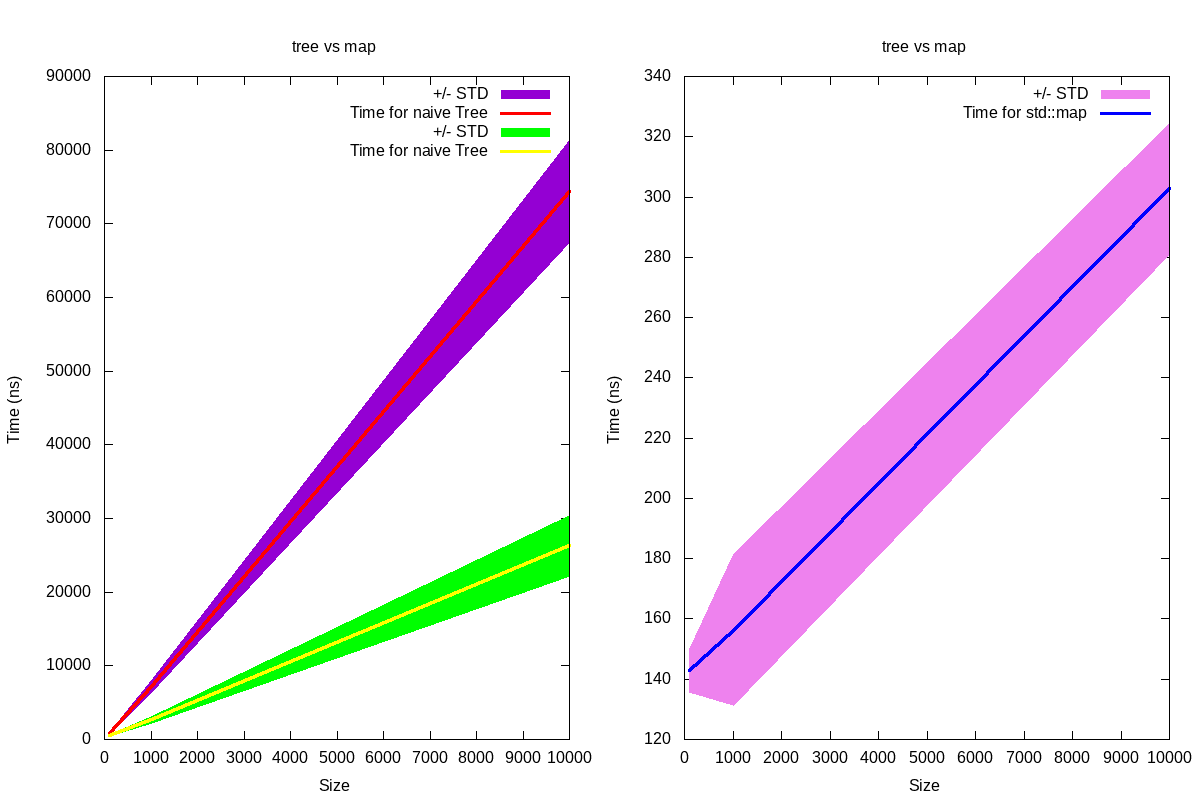
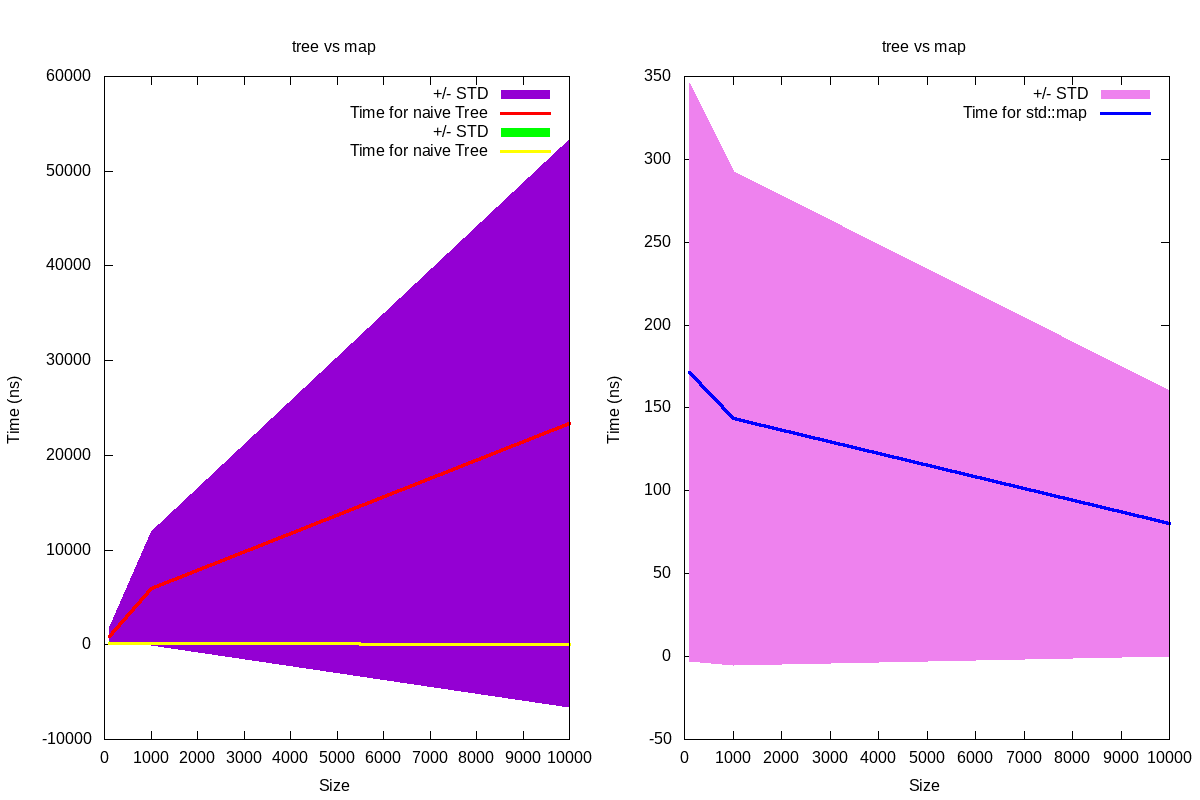
Running benchmarks

diff --git a/c++/main.cc b/c++/main.cc
@@ -101,9 +101,9 @@ class BinaryTree
 	// Insert new node
 	void insert(const std::pair<TK,TV>& pair);
 	// Find if a given key exists
- 	Iterator find(const std::pair<TK,TV>& pair);
+ 	Iterator find(const TK& key);
 	// auxiliary funtion for find() and insert()
-	Node* pos_find(const std::pair<TK,TV>& pair);
+	Node* pos_find(const TK& key);
 	// Remove ALL nodes from tree
 	void clear(){root.reset(); treeSize=0;}
 	// Retrieve tree size
@@ -220,7 +220,7 @@ std::ostream& operator<<(std::ostream& os, const BinaryTree<TK, TV>& tree)
 
 template <class TK, class TV>
 // BinaryTree<TK,TV>::Node* BinaryTree<TK, TV>::pos_find(const std::pair<TK,TV>& pair)
-typename BinaryTree<TK,TV>::Node* BinaryTree<TK, TV>::pos_find(const std::pair<TK,TV>& pair)
+typename BinaryTree<TK,TV>::Node* BinaryTree<TK, TV>::pos_find(const TK& key)
 {
 	// using Node = BinaryTree<TK, TV>::Node;
 	Node* tmpA = root ? root.get() : nullptr;
@@ -229,9 +229,9 @@ typename BinaryTree<TK,TV>::Node* BinaryTree<TK, TV>::pos_find(const std::pair<T
 	while (tmpA != nullptr && tmpA != tmpB )
 	{
 		tmpB = tmpA;
-		if (pair.first < tmpA->keyVal.first)
+		if (key < tmpA->keyVal.first)
 			tmpA = tmpA->left.get();
-		else if (pair.first > tmpA->keyVal.first)
+		else if (key > tmpA->keyVal.first)
 			tmpA = tmpA->right.get();
 	}
 	return tmpB;
@@ -243,7 +243,7 @@ void BinaryTree<TK, TV>::insert(const std::pair<TK,TV>& pair)
 	using Node = BinaryTree<TK, TV>::Node;
 	treeSize ++;
 
-	Node* pos = BinaryTree<TK, TV>::pos_find(pair);
+	Node* pos = BinaryTree<TK, TV>::pos_find(pair.first);
 
 	if (pos && pair.first < pos->keyVal.first)
 		pos->left.reset(new Node{pair, pos, nullptr, nullptr});
@@ -257,11 +257,11 @@ void BinaryTree<TK, TV>::insert(const std::pair<TK,TV>& pair)
 	
 
 template <class TK, class TV>
-typename BinaryTree<TK,TV>::Iterator BinaryTree<TK, TV>::find(const std::pair<TK,TV>& pair)
+typename BinaryTree<TK,TV>::Iterator BinaryTree<TK, TV>::find(const TK& key)
 {
 	using Node = BinaryTree<TK, TV>::Node;
-	Node* pos = BinaryTree<TK, TV>::pos_find(pair);
-	if (pos && pair.first == pos->keyVal.first )
+	Node* pos = BinaryTree<TK, TV>::pos_find(key);
+	if (pos && key == pos->keyVal.first )
 	{
 		return Iterator{pos};
 	}
@@ -273,7 +273,7 @@ typename BinaryTree<TK,TV>::Iterator BinaryTree<TK, TV>::find(const std::pair<TK
 template <class TK, class TV>
 void BinaryTree<TK, TV>::balance(BinaryTree<TK, TV>& balanceTree, BinaryTree<TK,TV>::Iterator begin, std::size_t locSize)
 {	
-	if (locSize == 1) {balanceTree.insert((*begin).first, (*begin).second); return;}
+	if (locSize == 1) {balanceTree.insert(*begin); return;}
 	
 	BinaryTree<TK,TV>::Iterator tmp{begin}; // shallow copy constructor of Iterator
 	std::size_t median;
@@ -282,7 +282,7 @@ void BinaryTree<TK, TV>::balance(BinaryTree<TK, TV>& balanceTree, BinaryTree<TK,
 	median = locSize/2 + 1;
 	for(std::size_t i = 1; i < median; ++i)
 		++tmp;
-	balanceTree.insert((*tmp).first, (*tmp).second);
+	balanceTree.insert(*tmp);
 	locSize_L = median - 1;
 	locSize_R = median -1 - (1 - locSize%2);
 	balance(balanceTree, begin, locSize_L);
@@ -295,115 +295,115 @@ void BinaryTree<TK, TV>::balance(BinaryTree<TK, TV>& balanceTree, BinaryTree<TK,
 int main(int argc, char const *argv[])
 {
 
-	BinaryTree<int, int> test1;
-	BinaryTree<int, int> test2;
+	// BinaryTree<int, int> test1;
+	// BinaryTree<int, int> test2;
 
-	std::array<int, 9> keys_1{8, 3, 10, 6, 7, 1, 4, 14, 13};	
-	for (auto x: keys_1) {test1.insert(std::pair<int,int>(x,1));}
-	// Random tree
-	for (int i = 0; i < 7; ++i)
-	{
-		test2.insert(std::pair<int,int>(rand()%100,1));
-	}
+	// std::array<int, 9> keys_1{8, 3, 10, 6, 7, 1, 4, 14, 13};	
+	// for (auto x: keys_1) {test1.insert(std::pair<int,int>(x,1));}
+	// // Random tree
+	// for (int i = 0; i < 7; ++i)
+	// {
+	// 	test2.insert(std::pair<int,int>(rand()%100,1));
+	// }
 
-	/////////////////////////////////////////////////////////////////
-	// COPY AND MOVE SEMANTICS TEST
-	std::cout << "\nBegin copy and move semantics tests ...\n" << std::endl;
+	// /////////////////////////////////////////////////////////////////
+	// // COPY AND MOVE SEMANTICS TEST
+	// std::cout << "\nBegin copy and move semantics tests ...\n" << std::endl;
 
-	BinaryTree<int, int> test_copy_asg;
-	BinaryTree<int, int> test_move_asg;
+	// BinaryTree<int, int> test_copy_asg;
+	// BinaryTree<int, int> test_move_asg;
 
-	BinaryTree<int, int> test_copy_ctr{test1};
-	std::cout << test_copy_ctr;
-	test_copy_asg = test1;
-	std::cout << test_copy_asg;
-	BinaryTree<int, int> test_move_ctr = std::move(test1);
-	std::cout << test_move_ctr;
-	test_move_asg = test_move_ctr;
-	std::cout << test_move_asg;
+	// BinaryTree<int, int> test_copy_ctr{test1};
+	// std::cout << test_copy_ctr;
+	// test_copy_asg = test1;
+	// std::cout << test_copy_asg;
+	// BinaryTree<int, int> test_move_ctr = std::move(test1);
+	// std::cout << test_move_ctr;
+	// test_move_asg = test_move_ctr;
+	// std::cout << test_move_asg;
 	
-	std::cout << "\nCompleted copy and move semantics tests ..." << std::endl;
-	/////////////////////////////////////////////////////////////////
+	// std::cout << "\nCompleted copy and move semantics tests ..." << std::endl;
+	// /////////////////////////////////////////////////////////////////
 	
 
-	/////////////////////////////////////////////////////////////////
-	std::cout << "\nBegin Iterators tests ...\n" << std::endl;
-	// ITERATORS TEST
-	// trying constIterator threw operator<<(std::ostream& os, const BinaryTree<TK, TV>& tree)
-	std::cout << test2;
+	// /////////////////////////////////////////////////////////////////
+	// std::cout << "\nBegin Iterators tests ...\n" << std::endl;
+	// // ITERATORS TEST
+	// // trying constIterator threw operator<<(std::ostream& os, const BinaryTree<TK, TV>& tree)
+	// std::cout << test2;
 
-	// trying Iterators
-	auto it = test2.begin();
-	auto stop = test2.end();
-	for(; it!=stop; ++it)
-	{
-		std::cout << (*it).first << " ";
-	  	(*it).second = 2;
-	}
-	std::cout << std::endl;
-	std::cout << test2;
+	// // trying Iterators
+	// auto it = test2.begin();
+	// auto stop = test2.end();
+	// for(; it!=stop; ++it)
+	// {
+	// 	std::cout << (*it).first << " ";
+	//   	(*it).second = 2;
+	// }
+	// std::cout << std::endl;
+	// std::cout << test2;
 
-	// trying cbegin and cend
-	auto c_it = test2.cbegin();
-	auto c_stop = test2.cend();
-	for(; c_it!=c_stop; ++c_it)
-	{
-		std::cout << (*c_it).first << " ";
-	//   (*c_it) = std::pair<int,int>(1,1);  // Error because it uses cbegin!
-	}
-	std::cout << std::endl;
-	std::cout << "\nCompleted Iterators tests ..." << std::endl;
-	/////////////////////////////////////////////////////////////////
+	// // trying cbegin and cend
+	// auto c_it = test2.cbegin();
+	// auto c_stop = test2.cend();
+	// for(; c_it!=c_stop; ++c_it)
+	// {
+	// 	std::cout << (*c_it).first << " ";
+	// //   (*c_it) = std::pair<int,int>(1,1);  // Error because it uses cbegin!
+	// }
+	// std::cout << std::endl;
+	// std::cout << "\nCompleted Iterators tests ..." << std::endl;
+	// /////////////////////////////////////////////////////////////////
 
 
-	/////////////////////////////////////////////////////////////////
+	// /////////////////////////////////////////////////////////////////
 
-	// FIND TEST
-	BinaryTree<int, int> tree;
-	for (auto x: keys_1) {tree.insert(std::pair<int,int>(x,1));}
-	auto look1 = tree.find(std::pair<int,int>(4,1));
-	auto look2 = tree.find(std::pair<int,int>(5,1));
-	auto find_stop = tree.end();
+	// // FIND TEST
+	// BinaryTree<int, int> tree;
+	// for (auto x: keys_1) {tree.insert(std::pair<int,int>(x,1));}
+	// auto look1 = tree.find(std::pair<int,int>(4,1));
+	// auto look2 = tree.find(std::pair<int,int>(5,1));
+	// auto find_stop = tree.end();
 
-	std::cout << "Looking for 4: ";
-	std::cout << (look1 != find_stop) << std::endl;
-	std::cout << "Looking for 5: " ;
-	std::cout << (look2 != find_stop) << std::endl;
+	// std::cout << "Looking for 4: ";
+	// std::cout << (look1 != find_stop) << std::endl;
+	// std::cout << "Looking for 5: " ;
+	// std::cout << (look2 != find_stop) << std::endl;
 		
-	/////////////////////////////////////////////////////////////////
+	// /////////////////////////////////////////////////////////////////
 
 	// BENCHMARK
 
-	// const std::size_t N = atoi(argv[1]);
-	// std::size_t lookFor = N/2;
-	// using namespace std::chrono;
-	// using time_point = steady_clock::time_point;
+	const std::size_t N = atoi(argv[1]);
+	std::size_t lookFor = 1;
+	using namespace std::chrono;
+	using time_point = steady_clock::time_point;
 
-	// BinaryTree<int, int> nonBalanced_bigTree, balanced_bigTree;
-	// std::map<int,int> std_map;
+	BinaryTree<int, int> nonBalanced_bigTree, balanced_bigTree;
+	std::map<int,int> std_map;
 
-	// std::vector<int> aLotOfKeys;	
-	// for (std::size_t i=0; i<N; ++i) {aLotOfKeys.push_back(N-i);}
-	// for (auto x: aLotOfKeys) { nonBalanced_bigTree.insert(x,1); std_map.insert( std::pair<int,int>(x,0) ); }
+	std::vector<int> aLotOfKeys;	
+	for (std::size_t i=0; i<N; ++i) {aLotOfKeys.push_back(N-i);}
+	for (auto x: aLotOfKeys) { nonBalanced_bigTree.insert(std::pair<int,int>(x,1)); std_map.insert( std::pair<int,int>(x,1) ); }
 	
-	// nonBalanced_bigTree.balance(balanced_bigTree, nonBalanced_bigTree.begin(), nonBalanced_bigTree.checkSize());
+	nonBalanced_bigTree.balance(balanced_bigTree, nonBalanced_bigTree.begin(), nonBalanced_bigTree.checkSize());
 
 	
-	// time_point begin1 = steady_clock::now();
-	// auto found_at1 = nonBalanced_bigTree.find(lookFor);
-	// time_point end1= steady_clock::now();
+	time_point begin1 = steady_clock::now();
+	auto found_at1 = nonBalanced_bigTree.find(lookFor);
+	time_point end1= steady_clock::now();
 
-	// time_point begin2 = steady_clock::now();
-	// auto found_at2 = balanced_bigTree.find(lookFor);
-	// time_point end2= steady_clock::now();
+	time_point begin2 = steady_clock::now();
+	auto found_at2 = balanced_bigTree.find(lookFor);
+	time_point end2= steady_clock::now();
 	
-	// time_point begin3 = steady_clock::now();
-	// auto found_at3 = std_map.find(lookFor);
-	// time_point end3= steady_clock::now();
+	time_point begin3 = steady_clock::now();
+	auto found_at3 = std_map.find(lookFor);
+	time_point end3= steady_clock::now();
 
-	// std::cout << N << " " << duration_cast<nanoseconds> (end1 - begin1).count();
-	// std::cout << " " << duration_cast<nanoseconds> (end2 - begin2).count();
-	// std::cout << " " << duration_cast<nanoseconds> (end3 - begin3).count() <<std::endl;
+	std::cout << N << " " << duration_cast<nanoseconds> (end1 - begin1).count();
+	std::cout << " " << duration_cast<nanoseconds> (end2 - begin2).count();
+	std::cout << " " << duration_cast<nanoseconds> (end3 - begin3).count() <<std::endl;
 
 	///////////////////////////////////////////////////////////////
 
